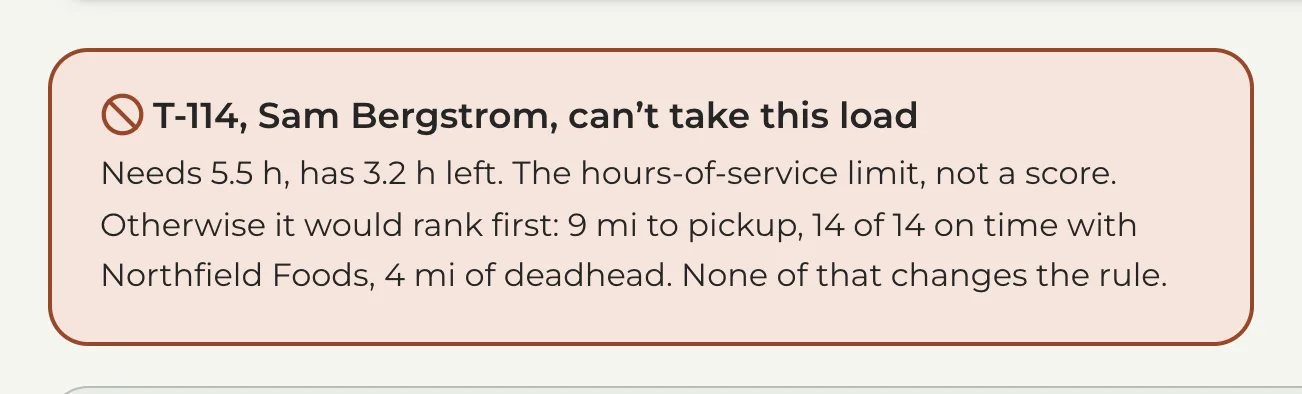
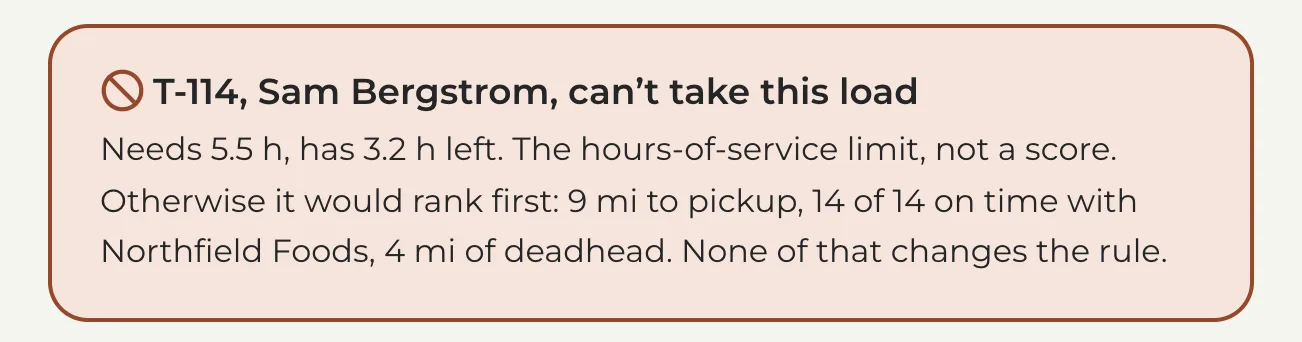
The two decision captures stop cutting through the card above them
PAD is 24 and the gap between .ck-load and what follows it is 24, so the
crop for close-call and for rule landed exactly on .ck-load's bottom
border. .ck-load is a white card at --shadow-card, whose 0 4px 8px -5px
reaches about 3px past that border, so both pictures shipped with a
hairline across the very top and a blur under it -- a cut through the
edge of a card the frame does not otherwise contain, which is the
miscut the PAD comment already warned about on the other three sides.

rule had it at both ends: 24 of pad against a 20 gap below took 4px of
.ck-lead's own top edge, which reads as a second card starting rather
than as ground.

`padTop` existed but was a slide's dial only -- the shot branch read
PAD for the top and could not be overridden. Both branches read it now,
and the two shots ask for 12 above, the middle of the flat ground, which
is where `padBottom: 10` already aims below.

Re-captured: close-call 1736x2108 (was 2132), rule 1302x342 (was 394).
Attributes and cache-busters move with the bytes. stale and
slide-close-call are unchanged -- both are anchored inside .ck-lead's
own padding and never reached a neighbour.

Fast five green.

diff --git a/prototype/dispatch-cockpit.html b/prototype/dispatch-cockpit.html
@@ -40,7 +40,7 @@
           "mainEntityOfPage": "https://adamhickey.com/prototype/dispatch-cockpit.html",
           "image": "https://adamhickey.com/img/og/dispatch-cockpit.jpg?v=12",
           "datePublished": "2026-09-10",
-          "dateModified": "2026-09-20",
+          "dateModified": "2026-09-21",
           "author": {
             "@id": "https://adamhickey.com/#adam"
           },
@@ -298,9 +298,9 @@
           </div>
           <figure class="ckw-hero-figure">
             <div class="ckw-scroll">
-              <img src="../img/cockpit/close-call.webp?v=16" width="1736" height="2132" alt="The cockpit showing a close call: a heading reading &ldquo;T-131 and T-118 are level. The tradeoff is faster pickup against more driver hours&rdquo;, under it a note raised on white saying T-131&rsquo;s hours are 45 minutes old, and then a comparison table with Option A and Option B as its two columns. The two rows that separate them, distance and driver hours, are raised on white and marked &ldquo;the tradeoff&rdquo;; the remaining factors follow, then a derived row giving the time each would reach the pickup, then an Assign button under each option." />
+              <img src="../img/cockpit/close-call.webp?v=17" width="1736" height="2108" alt="The cockpit showing a close call: a heading reading &ldquo;T-131 and T-118 are level. The tradeoff is faster pickup against more driver hours&rdquo;, under it a note raised on white saying T-131&rsquo;s hours are 45 minutes old, and then a comparison table with Option A and Option B as its two columns. The two rows that separate them, distance and driver hours, are raised on white and marked &ldquo;the tradeoff&rdquo;; the remaining factors follow, then a derived row giving the time each would reach the pickup, then an Assign button under each option." />
             </div>
-            <figcaption><strong>When the call is close, the system says so.</strong> One comparison, the two rows that separate the trucks first, the one figure it cannot vouch for marked, and no invented winner. <a class="ckw-full" href="../img/cockpit/close-call.webp?v=16">Full size &#8599;<span class="visually-hidden">, the close call</span></a></figcaption>
+            <figcaption><strong>When the call is close, the system says so.</strong> One comparison, the two rows that separate the trucks first, the one figure it cannot vouch for marked, and no invented winner. <a class="ckw-full" href="../img/cockpit/close-call.webp?v=17">Full size &#8599;<span class="visually-hidden">, the close call</span></a></figcaption>
           </figure>
         </div>
         <!-- Under the pair rather than inside the copy column: it is about the
@@ -565,9 +565,9 @@
               <ol class="ckw-frames">
                 <li class="ckw-frame--rule">
                   <div class="ckw-scroll">
-                    <img src="../img/cockpit/rule.webp?v=4" width="1302" height="394" loading="lazy" decoding="async" alt="A caution-outlined card reading &ldquo;T-114, Sam Bergstrom, can&rsquo;t take this load. Needs 5.5 h, has 3.2 h left. The hours-of-service limit, not a score. Otherwise it would rank first: 9 mi to pickup, 14 of 14 on time with Northfield Foods, 4 mi of deadhead. None of that changes the rule.&rdquo;" />
+                    <img src="../img/cockpit/rule.webp?v=5" width="1302" height="342" loading="lazy" decoding="async" alt="A caution-outlined card reading &ldquo;T-114, Sam Bergstrom, can&rsquo;t take this load. Needs 5.5 h, has 3.2 h left. The hours-of-service limit, not a score. Otherwise it would rank first: 9 mi to pickup, 14 of 14 on time with Northfield Foods, 4 mi of deadhead. None of that changes the rule.&rdquo;" />
                   </div>
-                  <p class="ckw-frame-cap"><span>A rule</span> Removes the truck before scoring, and keeps its row and its reason. <a class="ckw-full" href="../img/cockpit/rule.webp?v=4">Full size &#8599;<span class="visually-hidden">, the rule</span></a></p>
+                  <p class="ckw-frame-cap"><span>A rule</span> Removes the truck before scoring, and keeps its row and its reason. <a class="ckw-full" href="../img/cockpit/rule.webp?v=5">Full size &#8599;<span class="visually-hidden">, the rule</span></a></p>
                 </li>
                 <li class="ckw-frame--stale">
                   <div class="ckw-scroll">
